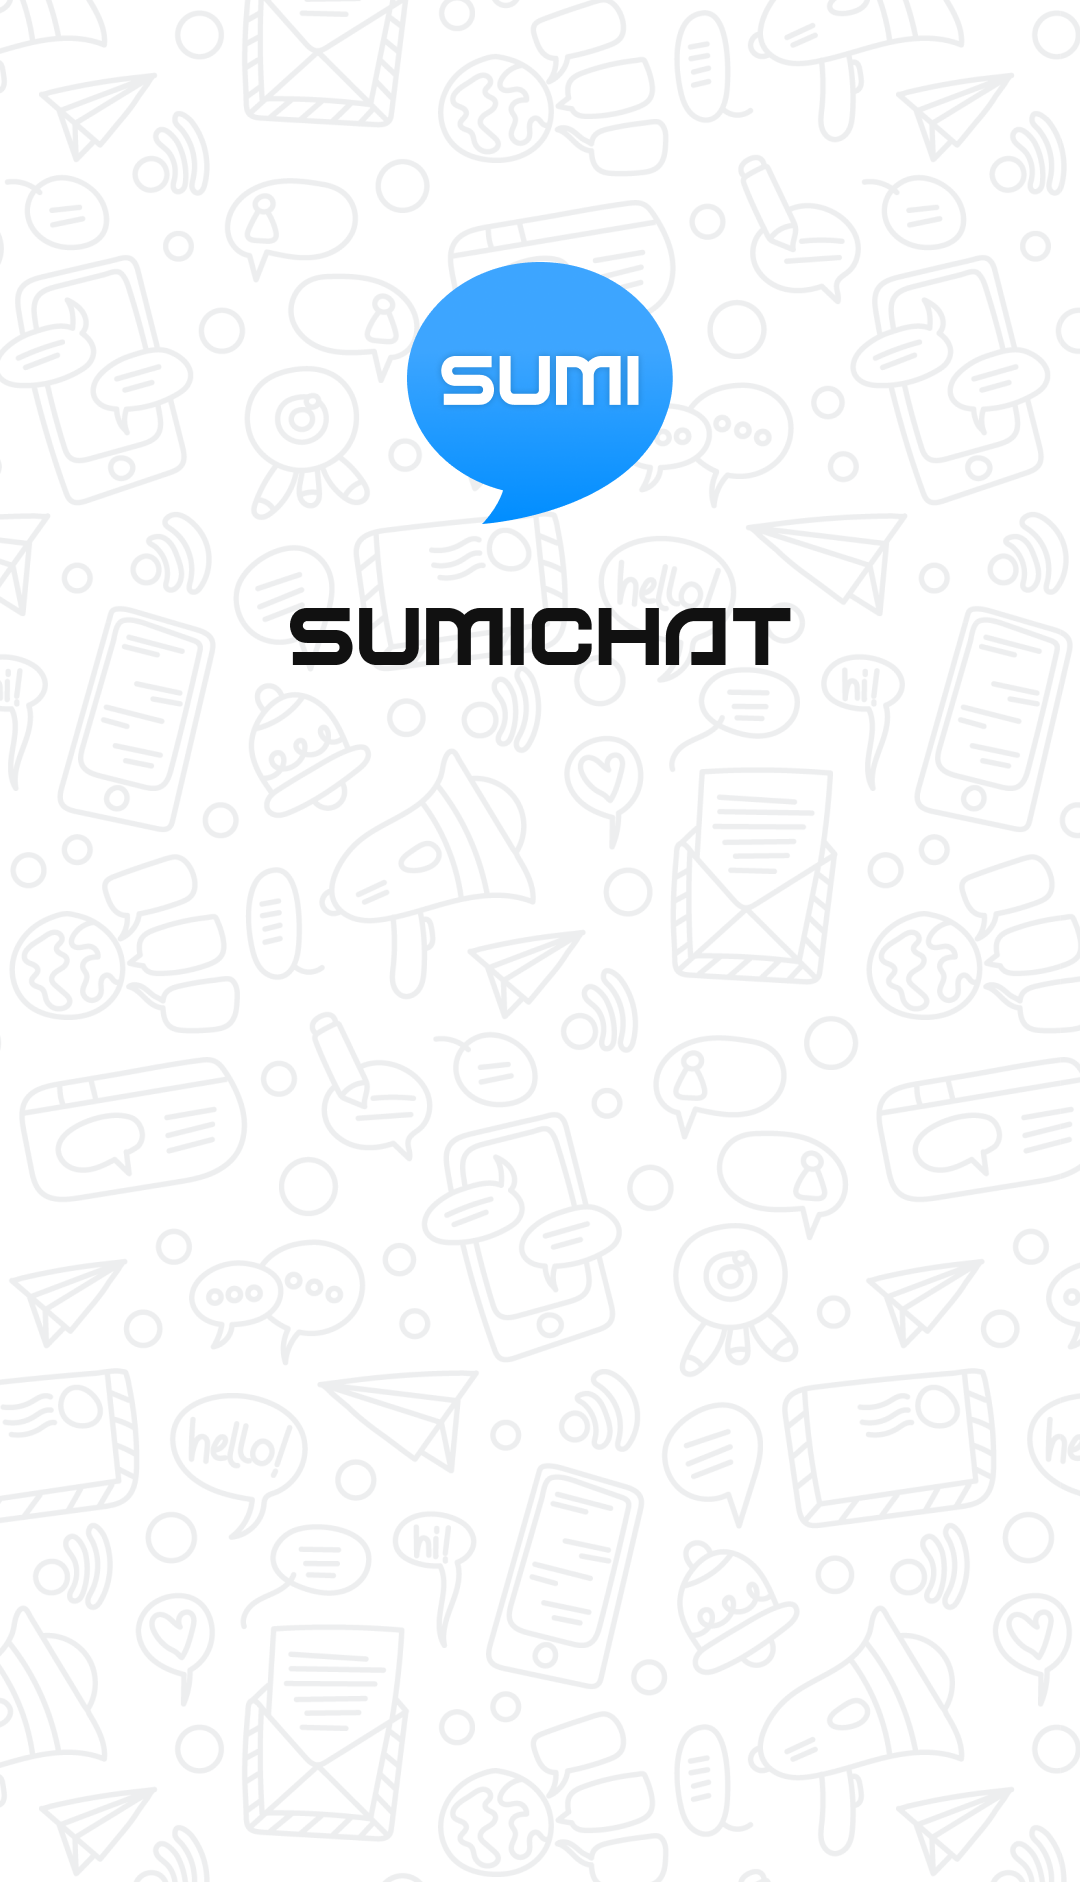
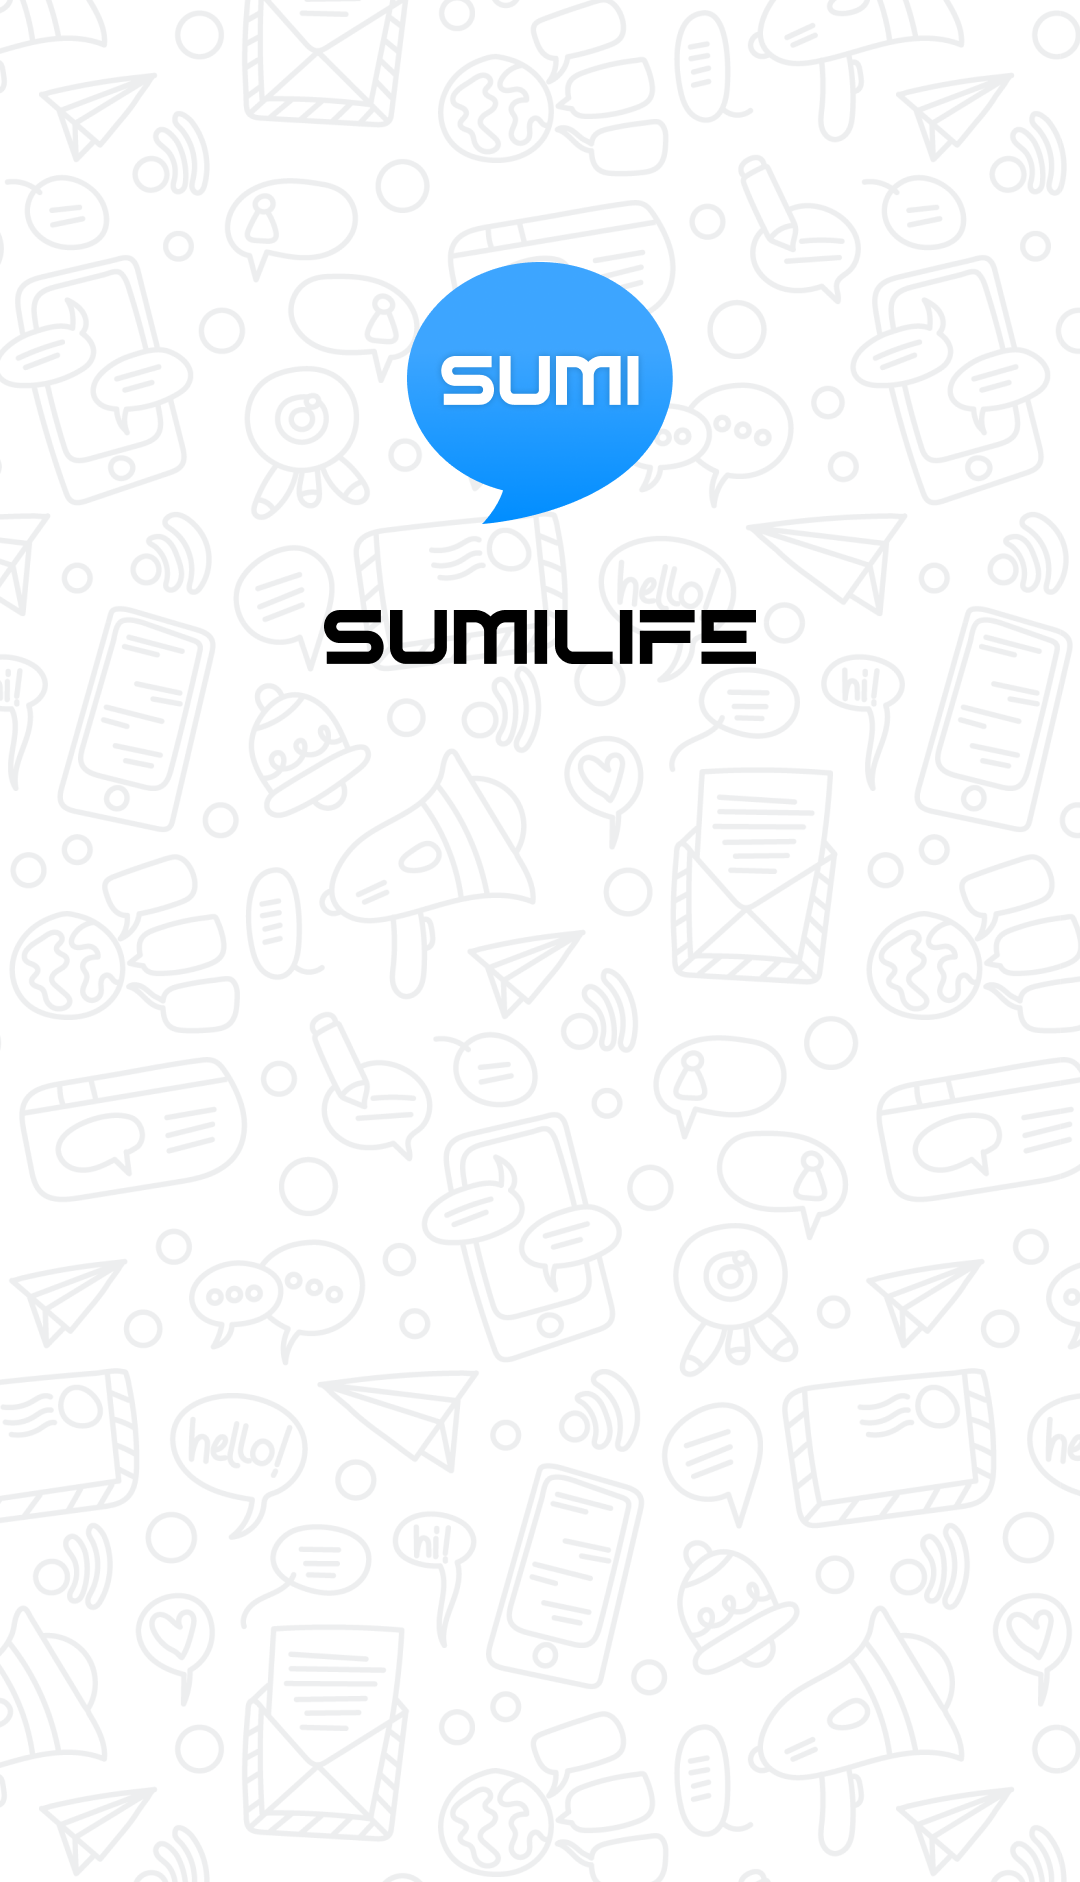
fix: sumilife

Changed region(s): [[0.275, 0.3082, 0.7333, 0.3698]]

diff --git a/pages/conversation/conversationList/components/ChatHeader.vue b/pages/conversation/conversationList/components/ChatHeader.vue
@@ -8,8 +8,8 @@
                 <u--image
                     v-if="!storeConnectingStatus"
                     src="/static/images/logo_name_blue.png"
-                    width="250rpx"
-                    height="28rpx"
+                    width="286rpx"
+                    height="36rpx"
                 />
             </template>
             <template slot="more">
